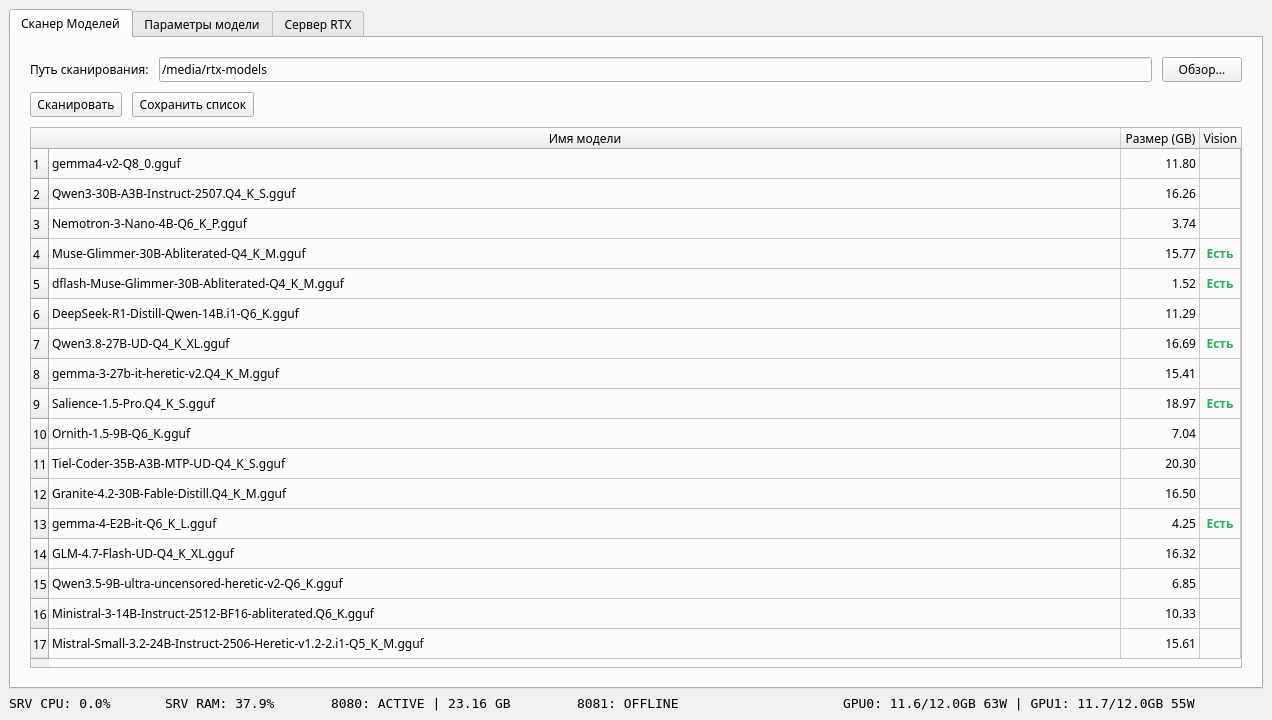
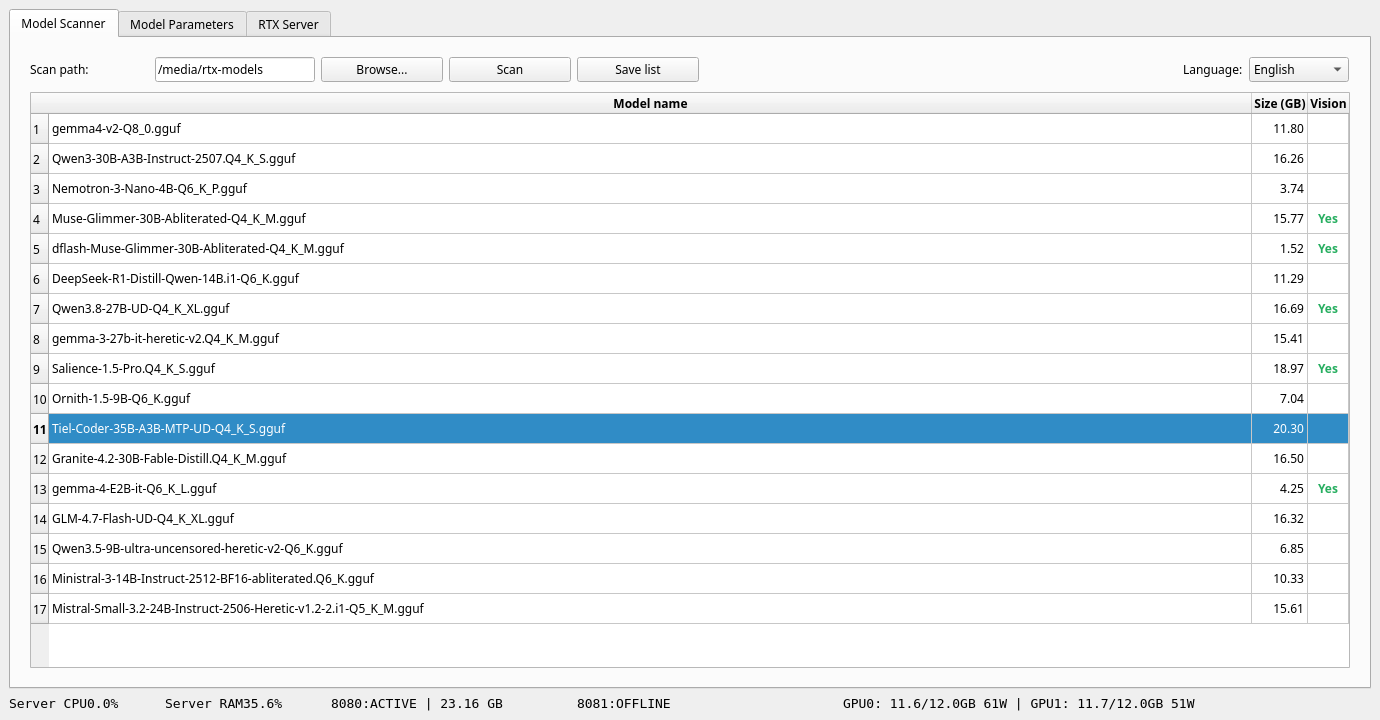
UI: исправить наложение лево-виджетов в сканере (раскладка применяется ко всем виджетам, а не только к хвосту) и добавить пробел перед значениями CPU/RAM в строке статуса; пересобрать screenshot_scanner.png

diff --git a/scanner_widget.py b/scanner_widget.py
@@ -11,7 +11,7 @@ from PySide6.QtWidgets import (
     QTableWidgetItem, QLabel, QLineEdit, QFileDialog, QHeaderView,
     QProgressBar, QSizePolicy, QMessageBox, QComboBox
 )
-from PySide6.QtCore import Qt, Signal, QRect, QSize, Slot
+from PySide6.QtCore import Qt, Signal, QRect, QSize, Slot, QTimer
 from PySide6.QtGui import QBrush, QColor, QFont
 
 from dotenv import set_key
@@ -148,15 +148,33 @@ class WrappingBar(QWidget):
             x += width + spacing
             line_height = max(line_height, height)
 
+        # Разобьём размещённые виджеты по строкам (по y) и найдём высоту каждой
+        # строки — по самому высокому виджету. Она нужна, чтобы центрировать по
+        # вертикали виджеты ниже максимальной высоты строки (например, метки).
+        lines = {}  # y -> [placed items]
+        for item in placed:
+            lines.setdefault(item[2], []).append(item)
+        line_heights = {ly: max(it[4] for it in its) for ly, its in lines.items()}
+
+        # Ставим виджет на вычисленную позицию, центрируя его по вертикали
+        # внутри строки. Сдвиг (shift) применяется ко второму проходу — вправо.
+        def place(idx, px, py, pw, ph, shift=0):
+            offset = (line_heights[py] - ph) // 2
+            self._widgets[idx].setGeometry(QRect(px + shift, py + offset, pw, ph))
+
+        # Первый проход теперь реально расставляет виджеты — до этой правки
+        # позиции только вычислялись в placed и применялись лишь к «хвосту»,
+        # из-за чего лево-виджеты оставались в (0,0) и накладывались друг на
+        # друга (например, «Сохранить список» поле пути поверх него).
+        for (idx, px, py, pw, ph) in placed:
+            place(idx, px, py, pw, ph)
+
         # Второй проход: виджеты после последнего разделителя прижаем вправо
         # как единый блок на их строке (чтобы группа языка не «прилипала» к
         # левому краю и не наезжала друг на друга). Сдвиг единый для всей
         # строки — сохраняются промежутки между виджетами блока.
         if last_stretch >= 0:
             trailing = {id(w) for w in self._widgets[last_stretch + 1:]}
-            lines = {}  # y -> [placed items]
-            for item in placed:
-                lines.setdefault(item[2], []).append(item)
             for items in lines.values():
                 right_items = [it for it in items if id(self._widgets[it[0]]) in trailing]
                 if not right_items:
@@ -166,7 +184,16 @@ class WrappingBar(QWidget):
                 if not shift:
                     continue
                 for (idx, px, py, pw, ph) in right_items:
-                    self._widgets[idx].setGeometry(QRect(px + shift, py, pw, ph))
+                    place(idx, px, py, pw, ph, shift=shift)
+
+    def showEvent(self, event):
+        super().showEvent(event)
+        # Размер виджета уточняется родителем уже после показа, поэтому
+        # пересчитываем раскладку в следующем цикле событий — когда размеры
+        # уже известны. Иначе в некоторых платформах (в т.ч. offscreen)
+        # resizeEvent не доводит раскладку до конца и виджеты остаются
+        # наложенными в (0,0).
+        QTimer.singleShot(0, self._do_layout)
 
     def resizeEvent(self, event):
         super().resizeEvent(event)

diff --git a/main_ui.py b/main_ui.py
@@ -218,8 +218,8 @@ class MainWindow(QMainWindow):
             instances = stats.get("instances", {})
             gpus = stats.get("gpu", [])
 
-            self.cpu_label.setText(f"{locale.translate('status.cpu')}{system['cpu']:.1f}%")
-            self.ram_label.setText(f"{locale.translate('status.ram')}{system['ram']:.1f}%")
+            self.cpu_label.setText(f"{locale.translate('status.cpu')} {system['cpu']:.1f}%")
+            self.ram_label.setText(f"{locale.translate('status.ram')} {system['ram']:.1f}%")
 
             inst_8080 = instances.get(8080, {})
             if inst_8080.get("running"):
